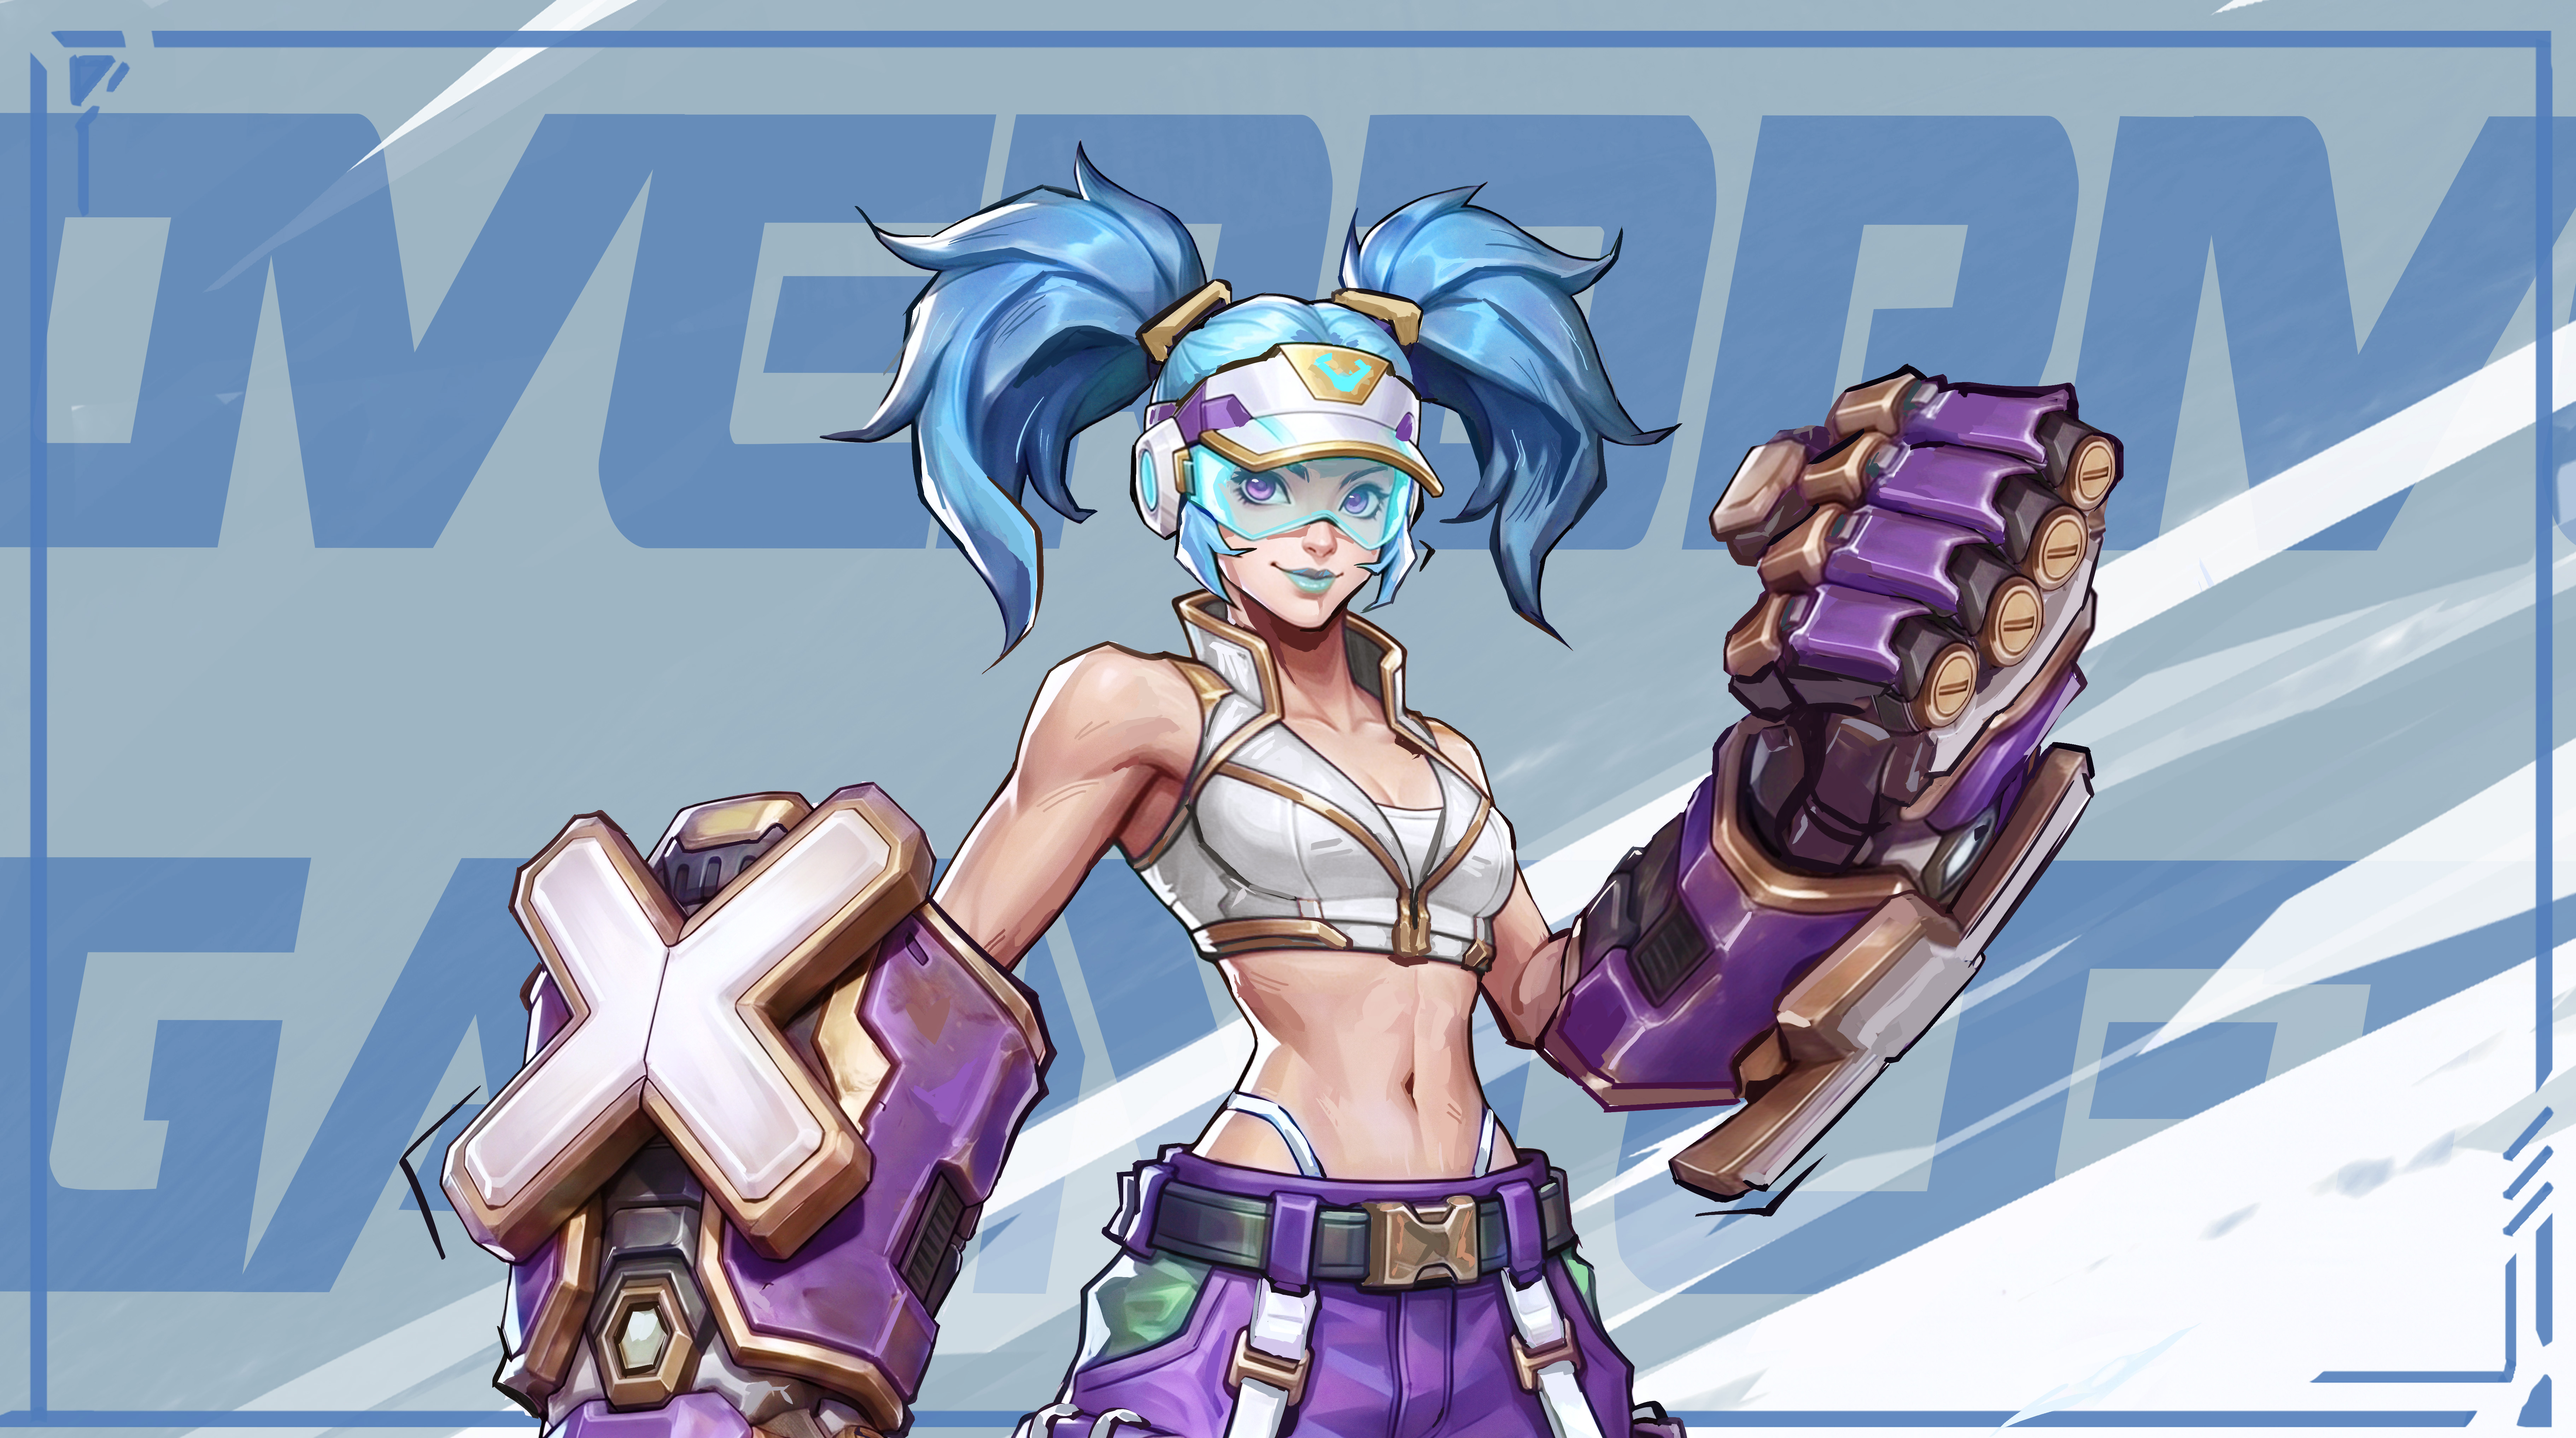
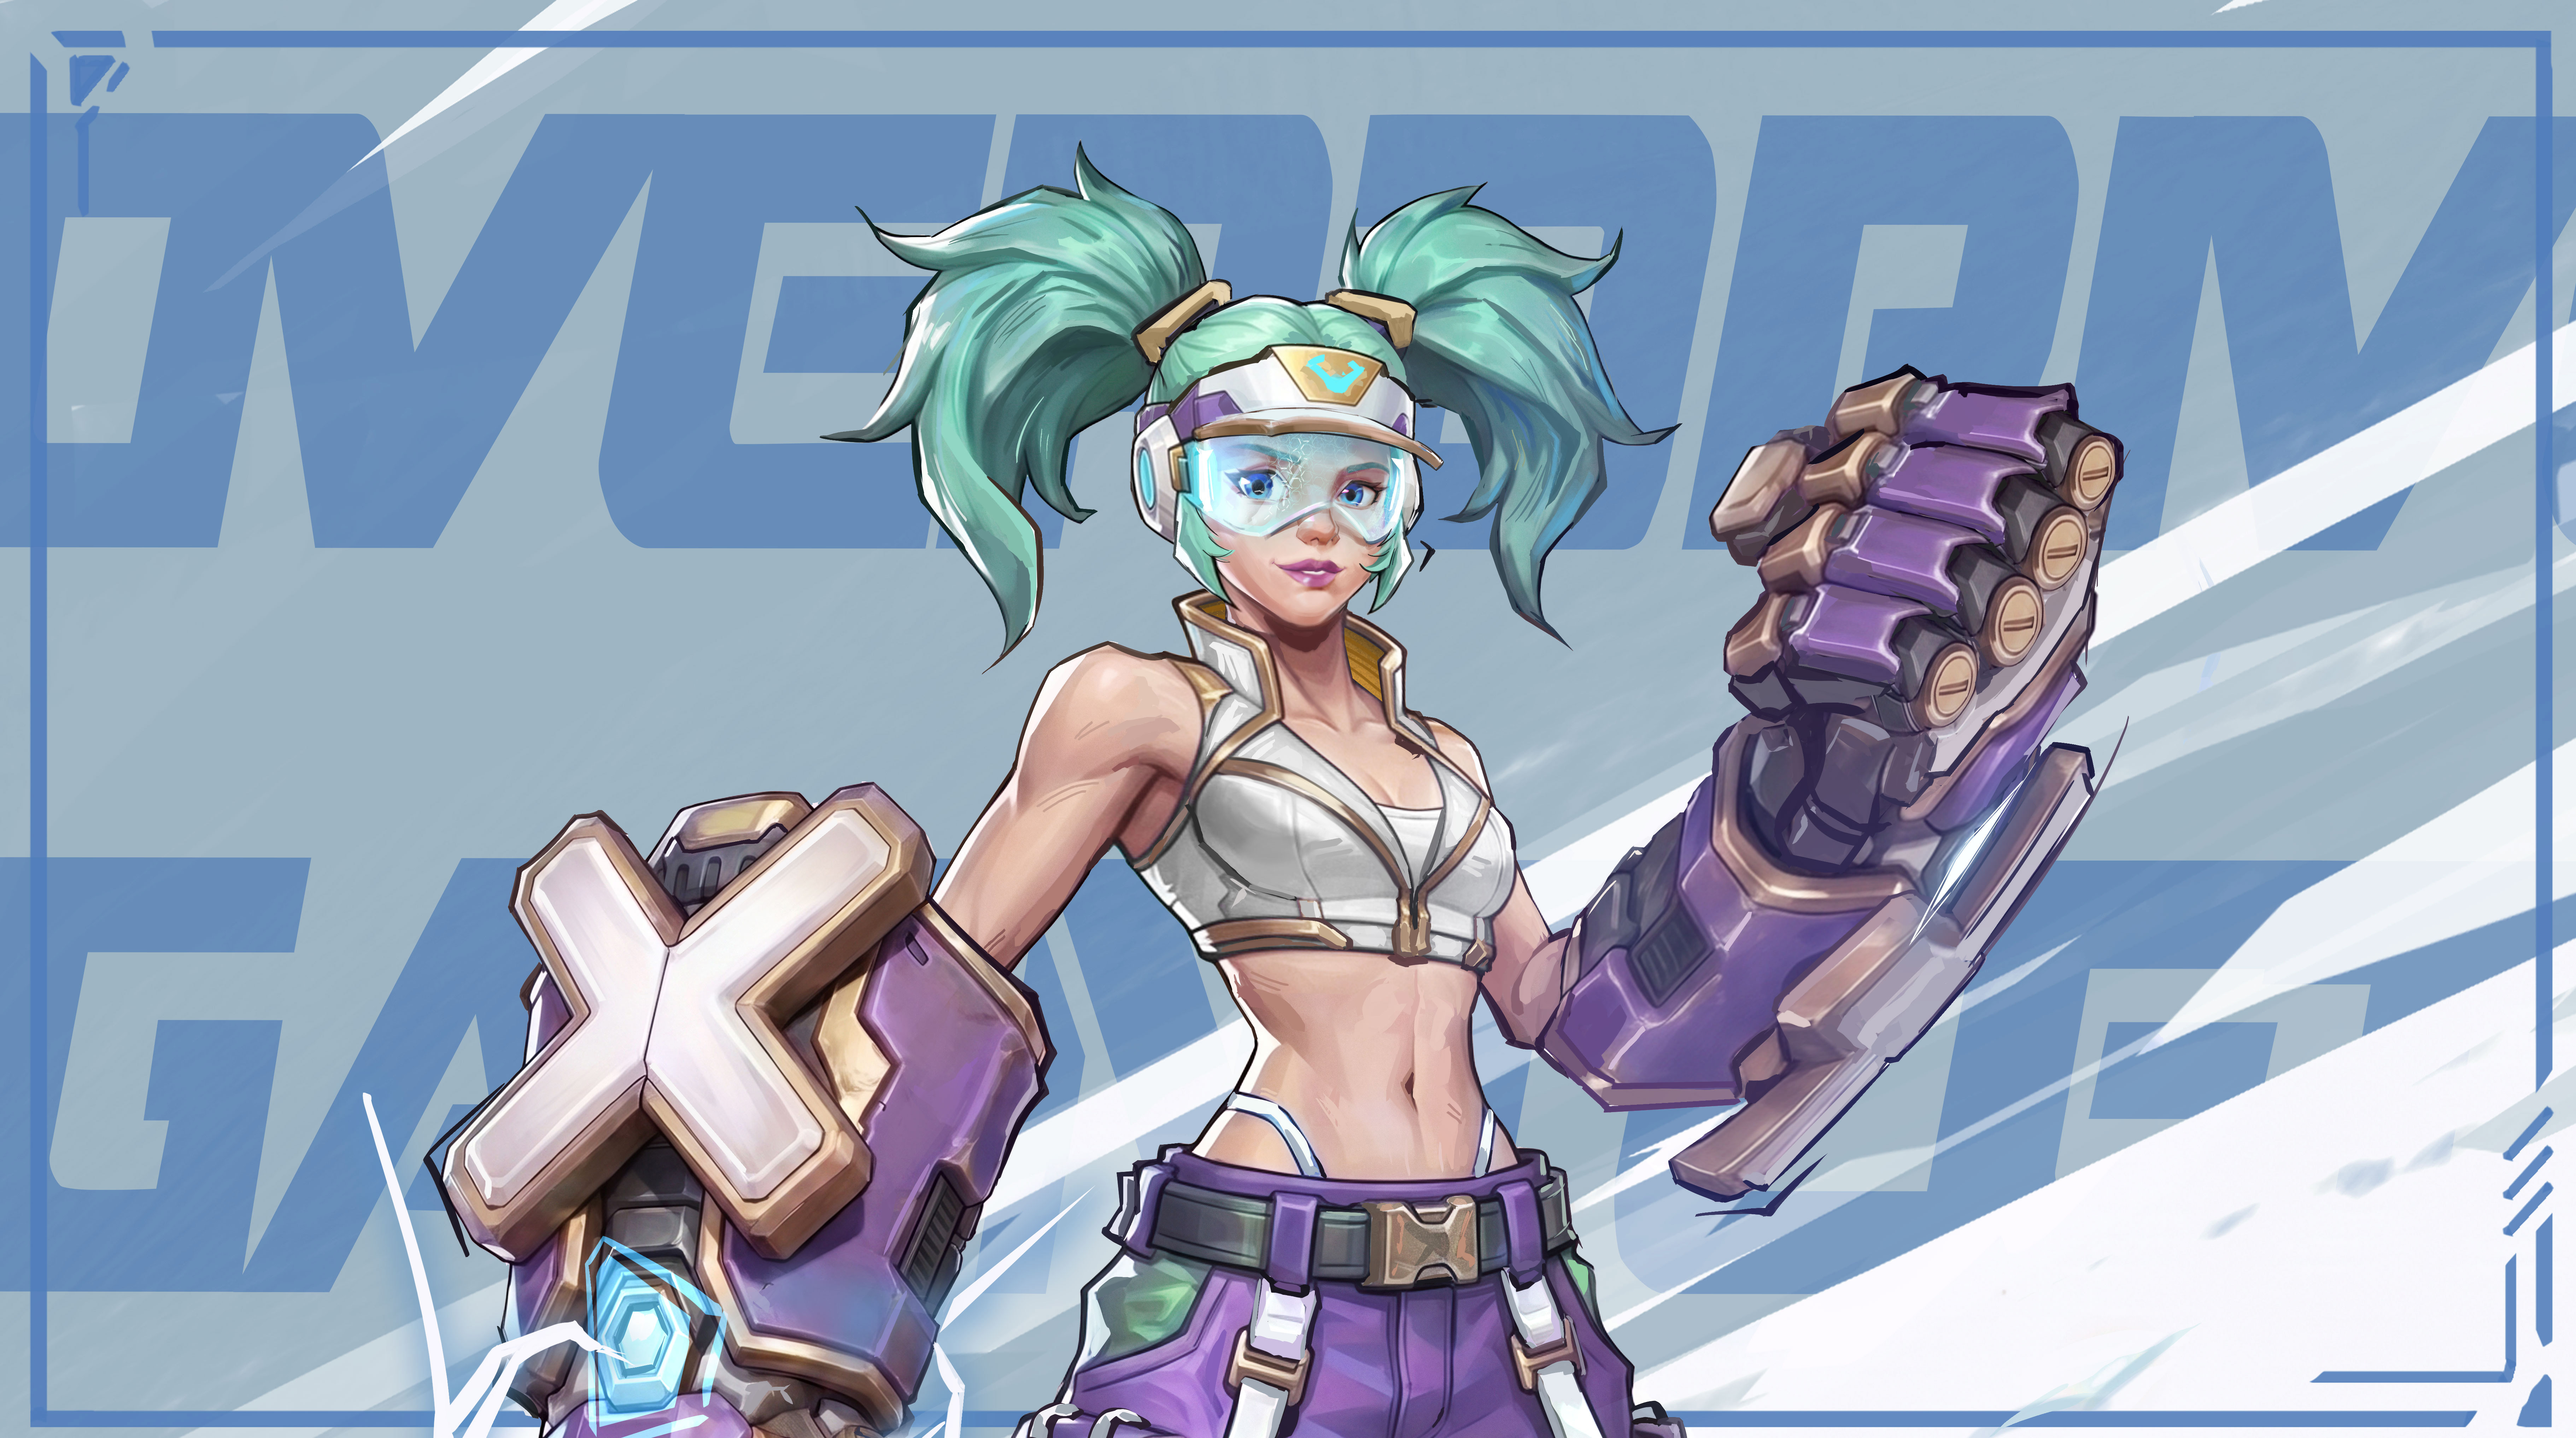
Update portfolio artwork and project order

diff --git a/index.html b/index.html
@@ -282,7 +282,7 @@
     </article>
   </template>
 
-  <script src="site-data.js?v=gauntlet-title-20260828"></script>
+  <script src="site-data.js?v=gauntlet-revisions-20260830"></script>
   <script src="script.js?v=masonry-portfolio-order-20260828e"></script>
 </body>
 </html>
